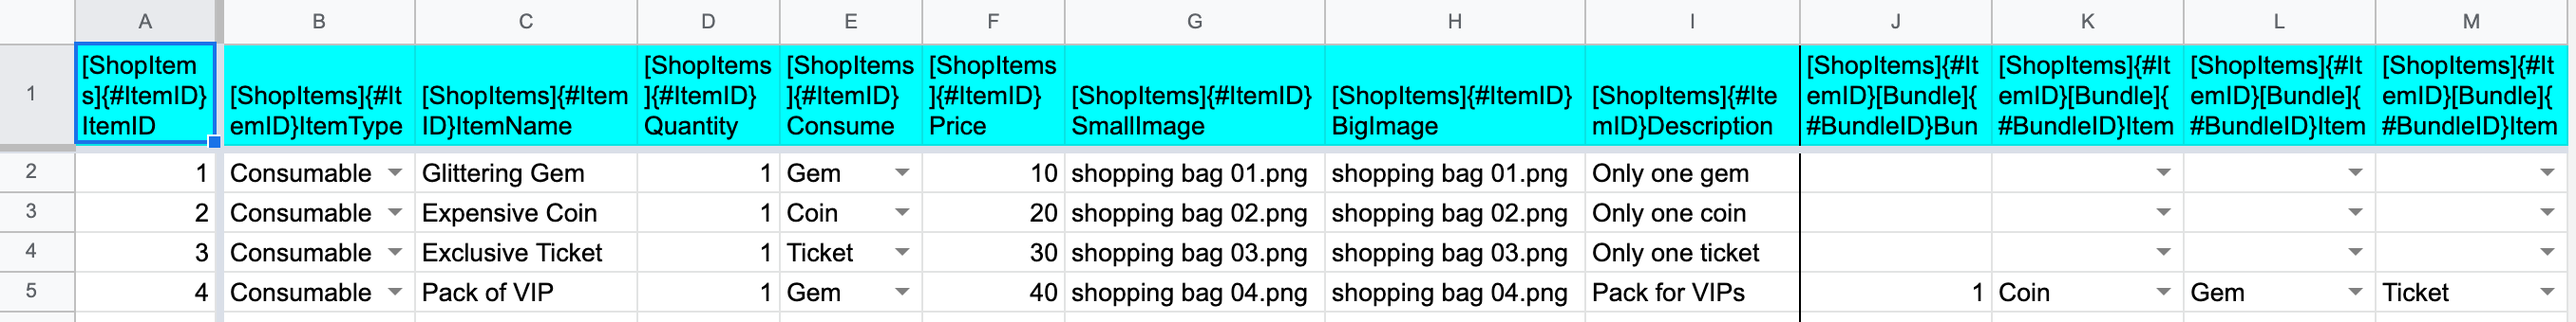
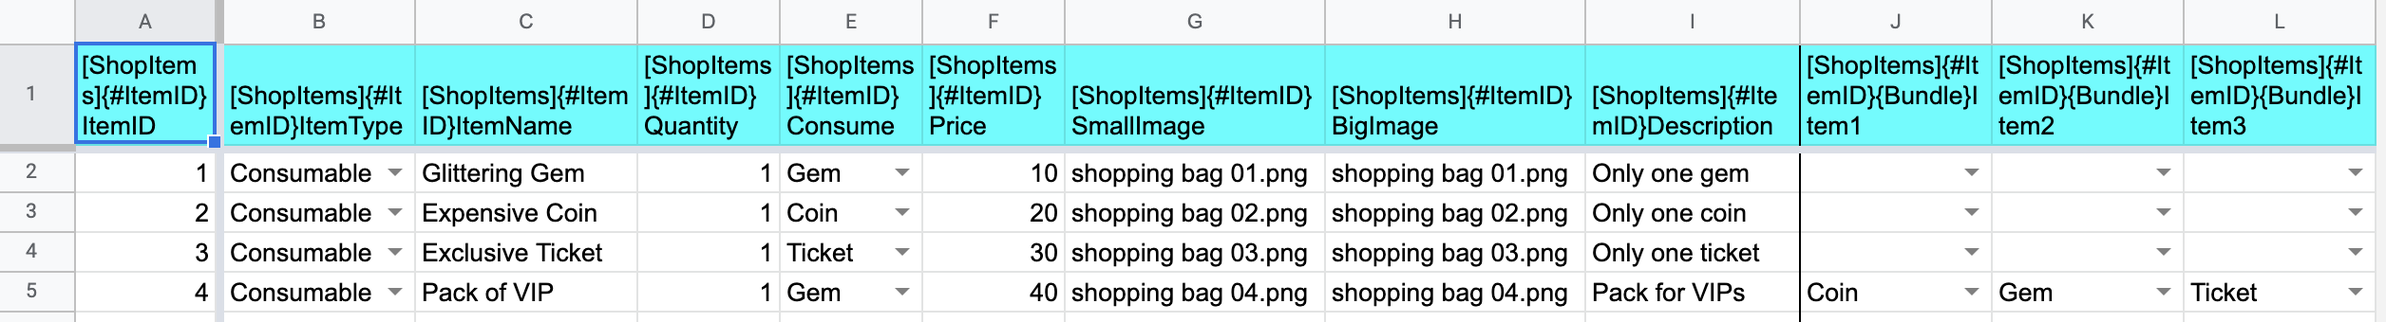
shop model and design

diff --git a/Unity Project/Assets/MK Assets/Shop Framework/Scripts/Core/ShopItem.cs b/Unity Project/Assets/MK Assets/Shop Framework/Scripts/Core/ShopItem.cs
@@ -6,7 +6,12 @@
 */
 
 using UnityEngine;
+#if UNITY_EDITOR
+using UnityEditor;
+using UnityEditor.Presets;
+#endif
 using UnityEngine.UI;
+using MK.Common;
 using MK.ShopFramework.Data;
 
 namespace MK.ShopFramework.Core
@@ -35,5 +40,49 @@ namespace MK.ShopFramework.Core
             backgroundImage.sprite = shopDetail.bigSprite;
             itemImage.sprite = shopDetail.smallSprite;
         }
+
+#if UNITY_EDITOR
+        [ContextMenu("Set Product Preset")]
+        public void SetProductPreset()
+        {
+            string filePath = shopDesign.PresetFolderReference + "/";
+            if (shopDesign.GetTextPreset(false).CanBeAppliedTo(itemName))
+            { // somewhow to Apply preset in Editor mode, Preset need to be loaded from the path
+                Preset preset = AssetDatabase.LoadAssetAtPath<Preset>(filePath + shopDesign.GetTextPreset(false).name);
+                this.Log("SetProductPreset-Text-Success: " + preset.ApplyTo(itemName));
+            }
+            if (shopDesign.GetImagePreset(false).CanBeAppliedTo(itemImage))
+            {
+                Preset preset = AssetDatabase.LoadAssetAtPath<Preset>(filePath + shopDesign.GetImagePreset(false).name);
+                this.Log("SetProductPreset-Image-Success: " + preset.ApplyTo(itemImage));
+            }
+            if (shopDesign.GetBackgroundImagePreset(false).CanBeAppliedTo(backgroundImage))
+            {
+                Preset preset = AssetDatabase.LoadAssetAtPath<Preset>(filePath + shopDesign.GetBackgroundImagePreset(false).name);
+                this.Log("SetProductPreset-BackgroundImage-Success: " + preset.ApplyTo(backgroundImage));
+            }
+        }
+
+        [ContextMenu("Set Bundle Preset")]
+        public void SetBundlePreset()
+        {
+            string filePath = shopDesign.PresetFolderReference + "/";
+            if (shopDesign.GetTextPreset(true).CanBeAppliedTo(itemName))
+            { // somewhow to Apply preset in Editor mode, Preset need to be loaded from the path
+                Preset preset = AssetDatabase.LoadAssetAtPath<Preset>(filePath + shopDesign.GetTextPreset(true).name);
+                this.Log("SetBundlePreset-Text-Success: " + preset.ApplyTo(itemName));
+            }
+            if (shopDesign.GetImagePreset(true).CanBeAppliedTo(itemImage))
+            {
+                Preset preset = AssetDatabase.LoadAssetAtPath<Preset>(filePath + shopDesign.GetImagePreset(true).name);
+                this.Log("SetBundlePreset-Image-Success: " + preset.ApplyTo(itemImage));
+            }
+            if (shopDesign.GetBackgroundImagePreset(true).CanBeAppliedTo(backgroundImage))
+            {
+                Preset preset = AssetDatabase.LoadAssetAtPath<Preset>(filePath + shopDesign.GetBackgroundImagePreset(true).name);
+                this.Log("SetBundlePreset-BackgroundImage-Success: " + preset.ApplyTo(backgroundImage));
+            }
+        }
+#endif
     }
 }

diff --git a/Unity Project/Assets/MK Assets/Shop Framework/Scripts/Asset Data/Shop Design/ShopDesign.cs b/Unity Project/Assets/MK Assets/Shop Framework/Scripts/Asset Data/Shop Design/ShopDesign.cs
@@ -7,19 +7,25 @@
 
 using UnityEngine;
 using UnityEditor.Presets;
+using MK.Common.Utilities;
 
 namespace MK.ShopFramework.Data
 { // NOTE: presets can't be set in runtime, so choose the design and set it manually
     [CreateAssetMenu(fileName = "Shop Design", menuName = "Data/Shop Design", order = 1)]
     public sealed class ShopDesign : ScriptableObject
     {
-        [Header("Product")] [SerializeField] DefaultPreset productText;
-        [SerializeField] DefaultPreset productBackgroundImage;
-        [SerializeField] DefaultPreset productImage;
+        [SerializeField] FolderReference presetFolderReference;
+        public string PresetFolderReference { get { return presetFolderReference.Path; } }
 
-        [Header("Bundle")] [SerializeField] DefaultPreset bundleText;
-        [SerializeField] DefaultPreset bundleBackgroundImage;
-        [SerializeField] DefaultPreset bundleImage;
+        [Header("Product")]
+        [SerializeField] Preset productTextPreset;
+        [SerializeField] Preset productBackgroundImagePreset;
+        [SerializeField] Preset productImagePreset;
+
+        [Header("Bundle")]
+        [SerializeField] Preset bundleTextPreset;
+        [SerializeField] Preset bundleBackgroundImagePreset;
+        [SerializeField] Preset bundleImagePreset;
 
         #region Getters // for artists
 
@@ -28,9 +34,9 @@ namespace MK.ShopFramework.Data
         /// </summary>
         /// <param name="isBundle"></param>
         /// <returns></returns>
-        public DefaultPreset GetTextPreset(bool isBundle)
+        public Preset GetTextPreset(bool isBundle)
         {
-            return isBundle ? bundleText : productText;
+            return isBundle ? bundleTextPreset : productTextPreset;
         }
 
         /// <summary>
@@ -38,9 +44,9 @@ namespace MK.ShopFramework.Data
         /// </summary>
         /// <param name="isBundle"></param>
         /// <returns></returns>
-        public DefaultPreset GetBackgroundImagePreset(bool isBundle)
+        public Preset GetBackgroundImagePreset(bool isBundle)
         {
-            return isBundle ? bundleImage : productImage;
+            return isBundle ? bundleImagePreset : productImagePreset;
         }
 
         /// <summary>
@@ -48,9 +54,9 @@ namespace MK.ShopFramework.Data
         /// </summary>
         /// <param name="isBundle"></param>
         /// <returns></returns>
-        public DefaultPreset GetImagePreset(bool isBundle)
+        public Preset GetImagePreset(bool isBundle)
         {
-            return isBundle ? bundleBackgroundImage : productBackgroundImage;
+            return isBundle ? bundleBackgroundImagePreset : productBackgroundImagePreset;
         }
 
         #endregion Getters // for artists

diff --git a/Unity Project/Assets/MK Assets/Shop Framework/Scripts/Asset Data/Shop Data/ShopModel.cs b/Unity Project/Assets/MK Assets/Shop Framework/Scripts/Asset Data/Shop Data/ShopModel.cs
@@ -1,0 +1,44 @@
+/* 
+ * Author : Mohsin Khan
+ * LinkedIn : http://pk.linkedin.com/in/mohsinkhan26/
+ * Github : https://github.com/mohsinkhan26/
+ * BitBucket : https://bitbucket.org/mohsinkhan26/ 
+*/
+
+using Newtonsoft.Json;
+
+namespace MK.ShopFramework.Data
+{
+    public class ShopModel
+    {
+        [JsonProperty(PropertyName = "ItemID")]
+        public int ItemID { get; private set; }
+
+        [JsonProperty(PropertyName = "ItemType")]
+        public string ItemType { get; private set; }
+
+        [JsonProperty(PropertyName = "ItemName")]
+        public string ItemName { get; private set; }
+
+        [JsonProperty(PropertyName = "Quantity")]
+        public int Quantity { get; private set; }
+
+        [JsonProperty(PropertyName = "Consume")]
+        public string Consume { get; private set; }
+
+        [JsonProperty(PropertyName = "Price")]
+        public float Price { get; private set; }
+
+        [JsonProperty(PropertyName = "SmallImage")]
+        public string SmallImage { get; private set; }
+
+        [JsonProperty(PropertyName = "BigImage")]
+        public string BigImage { get; private set; }
+
+        [JsonProperty(PropertyName = "Description")]
+        public string Description { get; private set; }
+
+        [JsonProperty(PropertyName = "Bundle")]
+        public ShopBundleModel Bundle { get; private set; }
+    }
+}

diff --git a/Unity Project/Assets/MK Assets/Shop Framework/Scripts/Asset Data/Shop Data/ShopBundleModel.cs b/Unity Project/Assets/MK Assets/Shop Framework/Scripts/Asset Data/Shop Data/ShopBundleModel.cs
@@ -1,0 +1,23 @@
+/* 
+ * Author : Mohsin Khan
+ * LinkedIn : http://pk.linkedin.com/in/mohsinkhan26/
+ * Github : https://github.com/mohsinkhan26/
+ * BitBucket : https://bitbucket.org/mohsinkhan26/ 
+*/
+
+using Newtonsoft.Json;
+
+namespace MK.ShopFramework.Data
+{
+    public class ShopBundleModel
+    {
+        [JsonProperty(PropertyName = "Item1")]
+        public string Item1 { get; private set; }
+
+        [JsonProperty(PropertyName = "Item2")]
+        public string Item2 { get; private set; }
+
+        [JsonProperty(PropertyName = "Item3")]
+        public string Item3 { get; private set; }
+    }
+}
